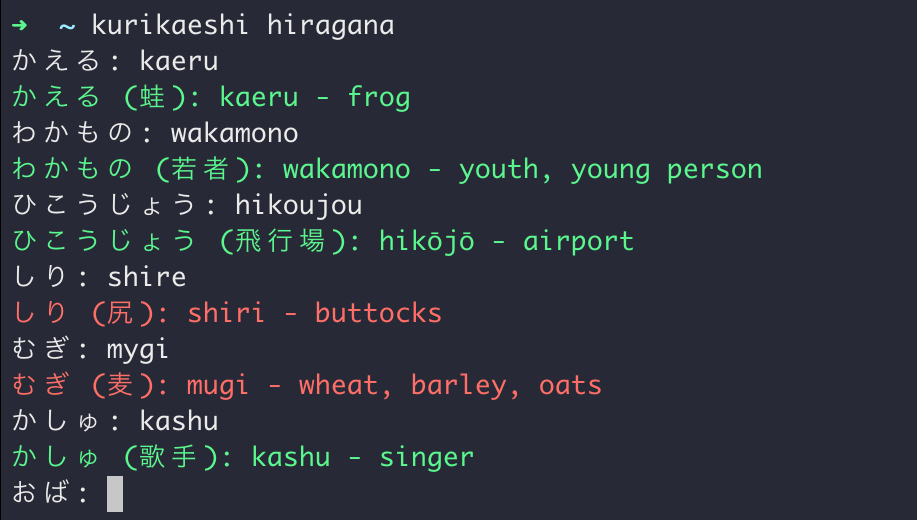
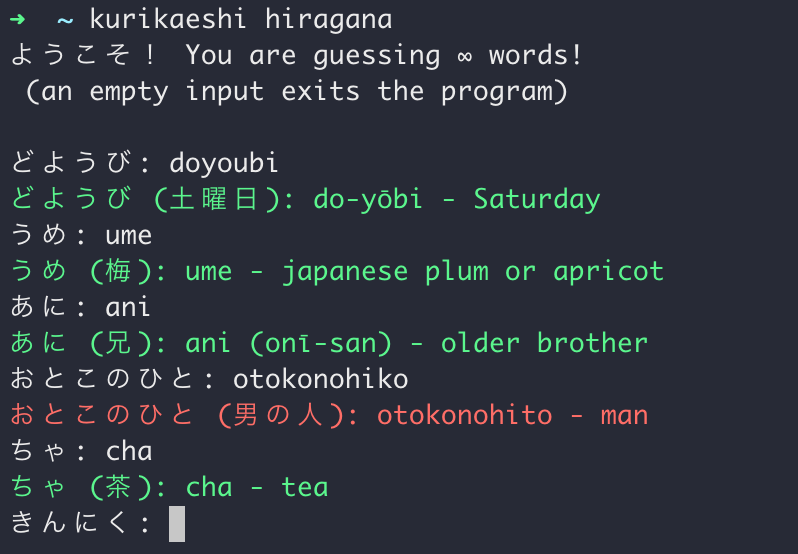
Add a welcome message

Changed region(s): [[0.0, 0.0, 0.8421, 0.9846], [0.5414, 0.5846, 0.812, 0.6462], [0.7519, 0.7385, 0.812, 0.7692]]

diff --git a/cmd/root.go b/cmd/root.go
@@ -6,6 +6,7 @@ import (
 	"fmt"
 	"math/rand"
 	"os"
+	"strconv"
 	"strings"
 	"time"
 
@@ -33,6 +34,12 @@ func runCommand(cmd *cobra.Command, args []string) error {
 	if err != nil {
 		return err
 	}
+
+	wordCountStr := "∞"
+	if wordCount != -1 {
+		wordCountStr = strconv.Itoa(wordCount)
+	}
+	fmt.Printf("ようこそ！ You are guessing %s words!\n (an empty input exits the program)\n\n", wordCountStr)
 
 	var guess string
 	var output string
@@ -88,7 +95,7 @@ func validateArgs(cmd *cobra.Command, args []string) error {
 
 var rootCmd = &cobra.Command{
 	Use:   "kurikaeshi <syllabary>",
-	Short: "Learn you Japanese good through repetition",
+	Short: "繰り返し - Learn you Japanese good through repetition",
 	Args:  validateArgs,
 	RunE:  runCommand,
 }

diff --git a/internal/data/data_test.go b/internal/data/data_test.go
@@ -11,7 +11,7 @@ func TestLoadHiragana(t *testing.T) {
 		t.Fatalf("Unexpected error: %v", err)
 	}
 
-	expectedLength := 428
+	expectedLength := 429
 	if len(result) != expectedLength {
 		t.Fatalf("Incorrect result length %v != %v", len(result), expectedLength)
 	}
